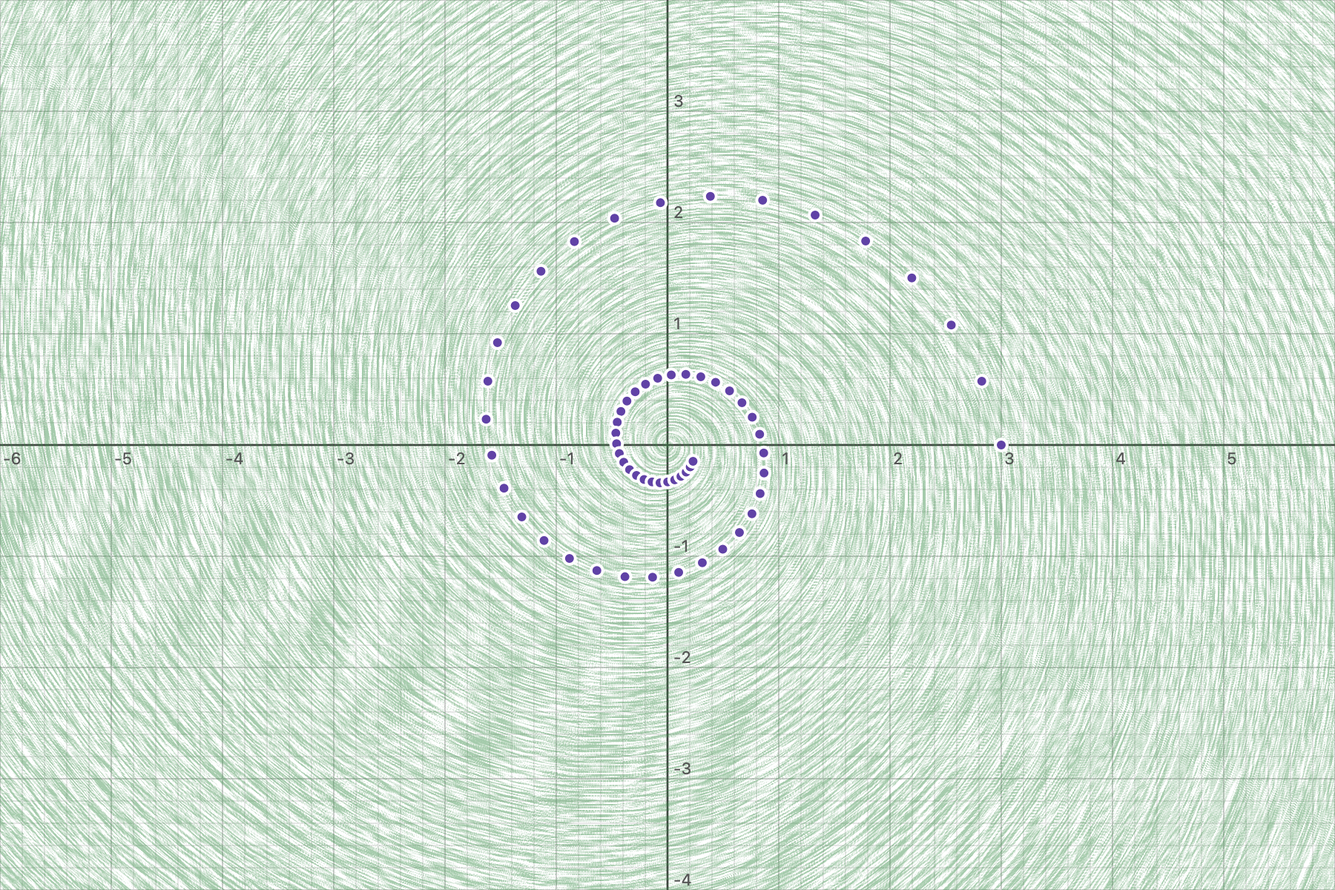
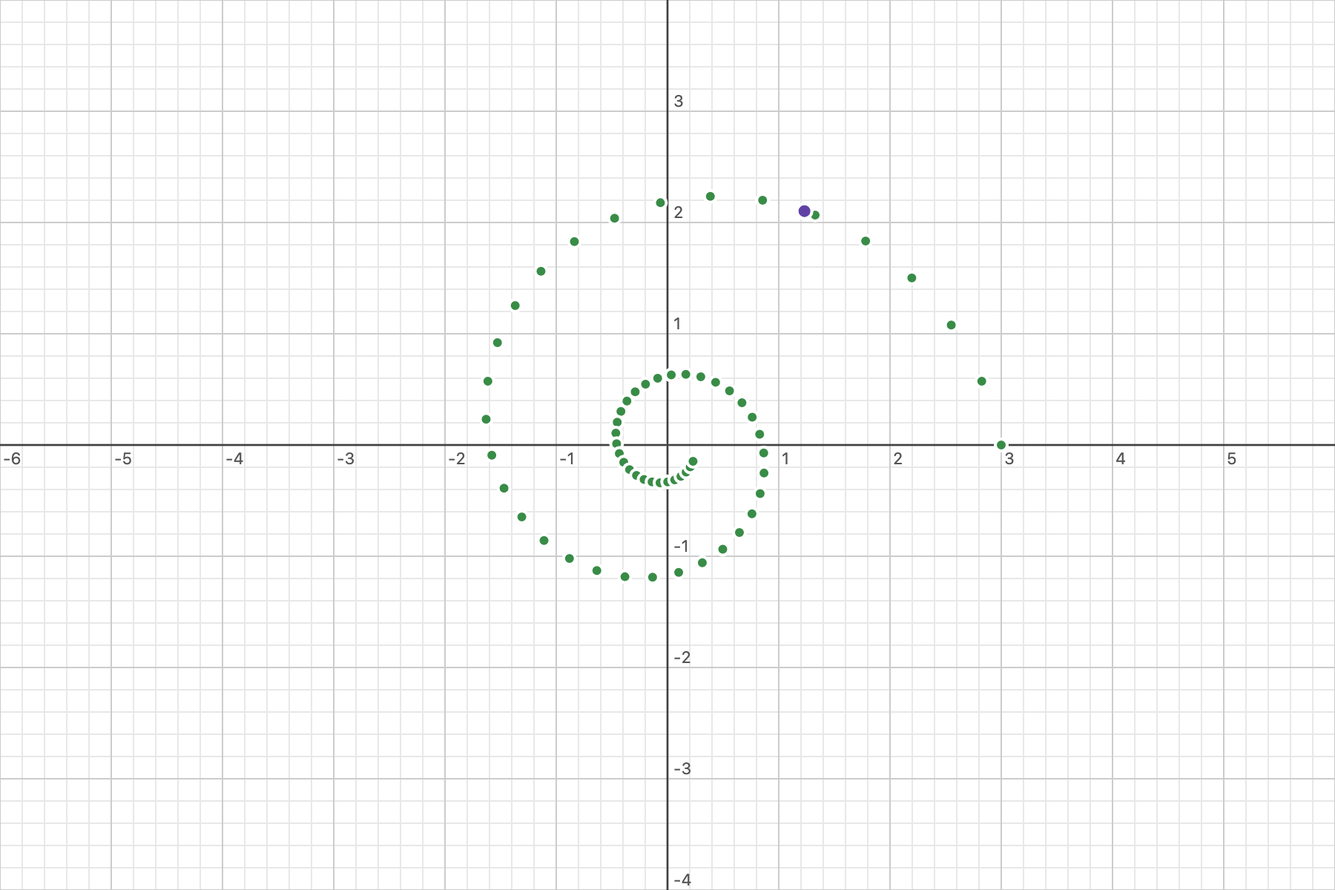
Drop the flow field from the matrix exponential card
The dots and the point riding them carry the idea; the field texture made
the shot 3.9 MB (now 41 KB).

diff --git a/web/about/showcase.ts b/web/about/showcase.ts
@@ -352,8 +352,8 @@ export const SHOWCASE: ShowcaseItem[] = [
   {
     slug: 'matrix-exponential',
     title: 'Rotations are matrix exponentials',
-    blurb: 'e^(tA) is the exact flow of (x′, y′) = A(x, y): with A = J it is a rotation, and with any other 2×2 a spiral, saddle or node. The dots are e^(sA) applied to one point for a list of times s.',
-    eqs: ['A = [(-0.2, -1), (1, -0.2)]', 's = [0..60]/5', "(x', y') = A (x, y)", 'e^(s A) (3, 0)'],
+    blurb: 'e^(tA) solves (x′, y′) = A(x, y) exactly: with A = J it is a rotation, and with any other 2×2 a spiral, saddle or node. The dots are e^(sA) applied to one point for a list of times s; the last row rides along them with t.',
+    eqs: ['A = [(-0.2, -1), (1, -0.2)]', 's = [0..60]/5', 'e^(s A) (3, 0)', 'e^(t A) (3, 0)'],
     group: 'Geometry',
     view: { span: 8 },
   },
